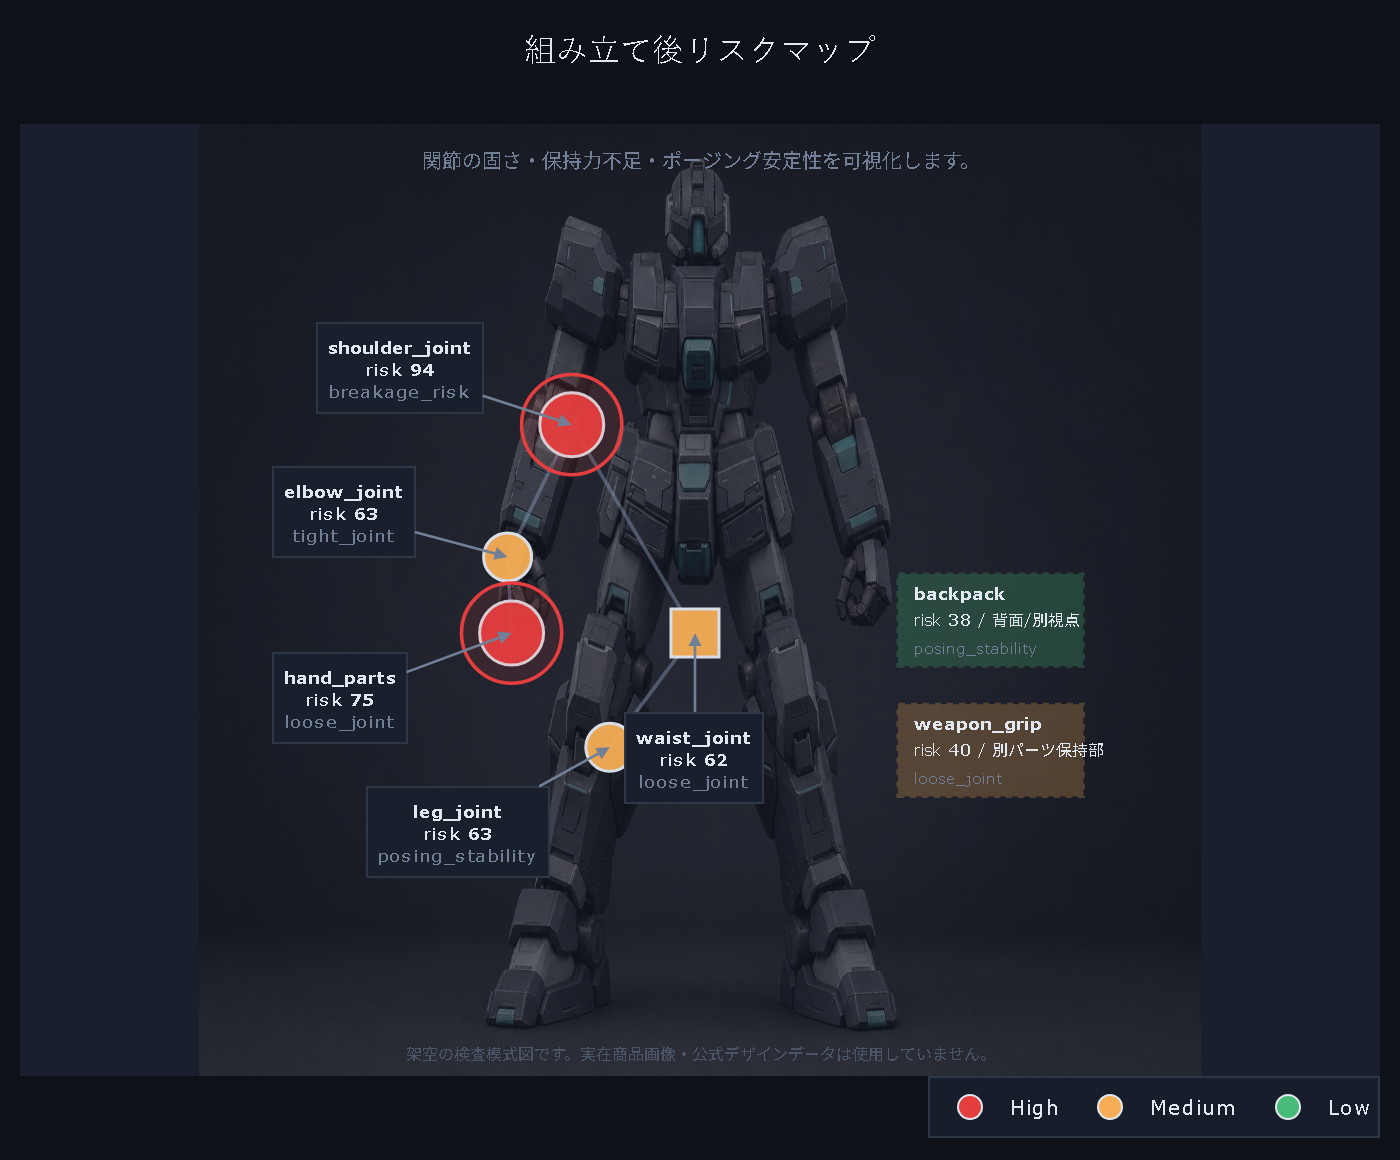
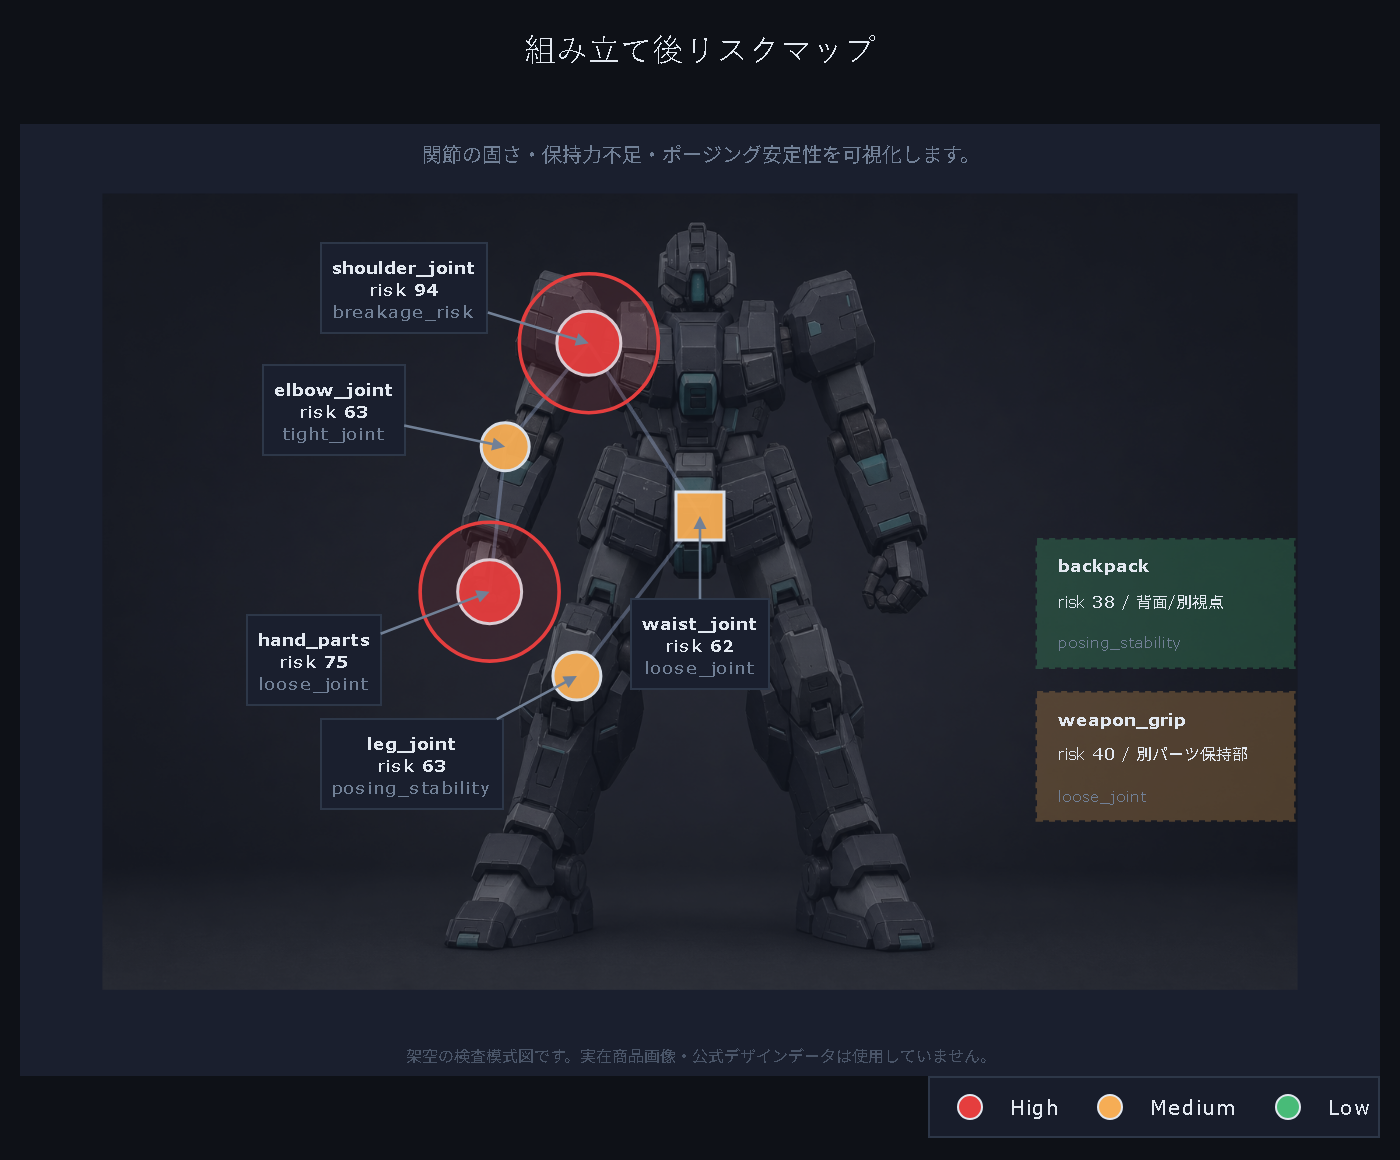
Fix assembled risk map alignment

Changed region(s): [[0.1843, 0.1241, 0.9521, 0.931], [0.5529, 0.869, 0.6757, 0.931]]

diff --git a/part_visualizer.py b/part_visualizer.py
@@ -88,14 +88,16 @@ RUNNER_PART_LAYOUT = {
     },
 }
 
+ASSEMBLED_BG_BOUNDS = {"x": 0.70, "y": 8.80, "w": 8.60, "h": 5.73}
+
 ASSEMBLED_PART_LAYOUT = {
-    "shoulder_joint": {"x": 3.72, "y": 6.50, "shape": "circle", "ann": {"ax": -86, "ay": -28}},
-    "elbow_joint":    {"x": 3.08, "y": 5.18, "shape": "circle", "ann": {"ax": -82, "ay": -22}},
-    "waist_joint":    {"x": 4.95, "y": 4.42, "shape": "square", "ann": {"ax": 0,   "ay": 62}},
-    "leg_joint":      {"x": 4.10, "y": 3.28, "shape": "circle", "ann": {"ax": -76, "ay": 42}},
-    "hand_parts":     {"x": 3.12, "y": 4.42, "shape": "circle", "ann": {"ax": -86, "ay": 32}},
-    "weapon_grip":    {"x": 7.90, "y": 3.25, "shape": "square", "external": True, "note": "別パーツ保持部"},
-    "backpack":       {"x": 7.90, "y": 4.55, "shape": "square", "external": True, "note": "背面/別視点"},
+    "shoulder_joint": {"fx": 0.407, "fy": 0.188, "shape": "circle", "ann": {"ax": -92, "ay": -28}},
+    "elbow_joint":    {"fx": 0.337, "fy": 0.318, "shape": "circle", "ann": {"ax": -86, "ay": -18}},
+    "waist_joint":    {"fx": 0.500, "fy": 0.405, "shape": "square", "ann": {"ax": 0,   "ay": 64}},
+    "leg_joint":      {"fx": 0.397, "fy": 0.606, "shape": "circle", "ann": {"ax": -82, "ay": 44}},
+    "hand_parts":     {"fx": 0.324, "fy": 0.500, "shape": "circle", "ann": {"ax": -88, "ay": 34}},
+    "weapon_grip":    {"x": 8.35, "y": 4.75, "shape": "square", "external": True, "note": "別パーツ保持部"},
+    "backpack":       {"x": 8.35, "y": 5.85, "shape": "square", "external": True, "note": "背面/別視点"},
 }
 
 ASSEMBLED_CONNECTIONS = [
@@ -232,14 +234,16 @@ def plot_assembled_inspection_map(
     fig = go.Figure()
     _apply_base_layout(fig, "組み立て後リスクマップ",
                        "関節の固さ・保持力不足・ポージング安定性を可視化します。")
+    _focus_assembled_layout(fig)
 
     bg_src = _load_bg_image("assembled_bg_original.png")
     if bg_src:
+        bounds = ASSEMBLED_BG_BOUNDS
         fig.add_layout_image(
             source=bg_src,
             xref="x", yref="y",
-            x=0.0, y=9.5,
-            sizex=10.0, sizey=9.5,
+            x=bounds["x"], y=bounds["y"],
+            sizex=bounds["w"], sizey=bounds["h"],
             xanchor="left", yanchor="top",
             opacity=0.42,
             layer="below",
@@ -253,9 +257,11 @@ def plot_assembled_inspection_map(
         la = ASSEMBLED_PART_LAYOUT.get(part_a)
         lb = ASSEMBLED_PART_LAYOUT.get(part_b)
         if la and lb:
+            ax, ay = _assembled_layout_point(la)
+            bx, by = _assembled_layout_point(lb)
             fig.add_trace(go.Scatter(
-                x=[float(la["x"]), float(lb["x"])],
-                y=[float(la["y"]), float(lb["y"])],
+                x=[ax, bx],
+                y=[ay, by],
                 mode="lines",
                 line=dict(color="rgba(160,180,220,0.35)", width=1.8),
                 hoverinfo="skip", showlegend=False,
@@ -269,7 +275,7 @@ def plot_assembled_inspection_map(
         main_cat   = info.get("main_issue_category", "n/a")
         issue_cats = info.get("issue_categories", [])
         color      = _risk_color(risk_score)
-        x, y       = float(layout["x"]), float(layout["y"])
+        x, y       = _assembled_layout_point(layout)
         shape      = "square" if layout.get("shape") in {"rect", "square"} else "circle"
         is_hl      = highlight_part_area == part_area
         score_text = f"{risk_score:.0f}" if risk_score is not None else "n/a"
@@ -395,6 +401,19 @@ def _apply_base_layout(fig: go.Figure, title: str, subtitle: str) -> None:
     fig.add_annotation(x=5, y=0.22, text=_DISCLAIMER, showarrow=False,
                        font=dict(size=8, color="#4A5568"),
                        xref="x", yref="y", xanchor="center")
+
+
+def _focus_assembled_layout(fig: go.Figure) -> None:
+    fig.update_layout(
+        xaxis=dict(range=[0.20, 9.80], showgrid=False, zeroline=False,
+                   showticklabels=False, fixedrange=True),
+        yaxis=dict(range=[2.45, 9.30], showgrid=False, zeroline=False,
+                   showticklabels=False, fixedrange=True,
+                   scaleanchor="x", scaleratio=1),
+    )
+    if len(fig.layout.annotations) >= 2:
+        fig.layout.annotations[-2].update(y=9.08)
+        fig.layout.annotations[-1].update(y=2.60)
 
 
 def _draw_runner_frame(fig: go.Figure) -> None:
@@ -815,6 +834,16 @@ def _risk_level(risk_score: float | None) -> str:
 def _point(value: Any) -> tuple[float, float]:
     x, y = value
     return float(x), float(y)
+
+
+def _assembled_layout_point(layout: Mapping[str, Any]) -> tuple[float, float]:
+    if "fx" in layout and "fy" in layout:
+        bounds = ASSEMBLED_BG_BOUNDS
+        return (
+            float(bounds["x"]) + float(layout["fx"]) * float(bounds["w"]),
+            float(bounds["y"]) - float(layout["fy"]) * float(bounds["h"]),
+        )
+    return float(layout["x"]), float(layout["y"])
 
 
 def _priority_label(risk_score: int) -> str:
